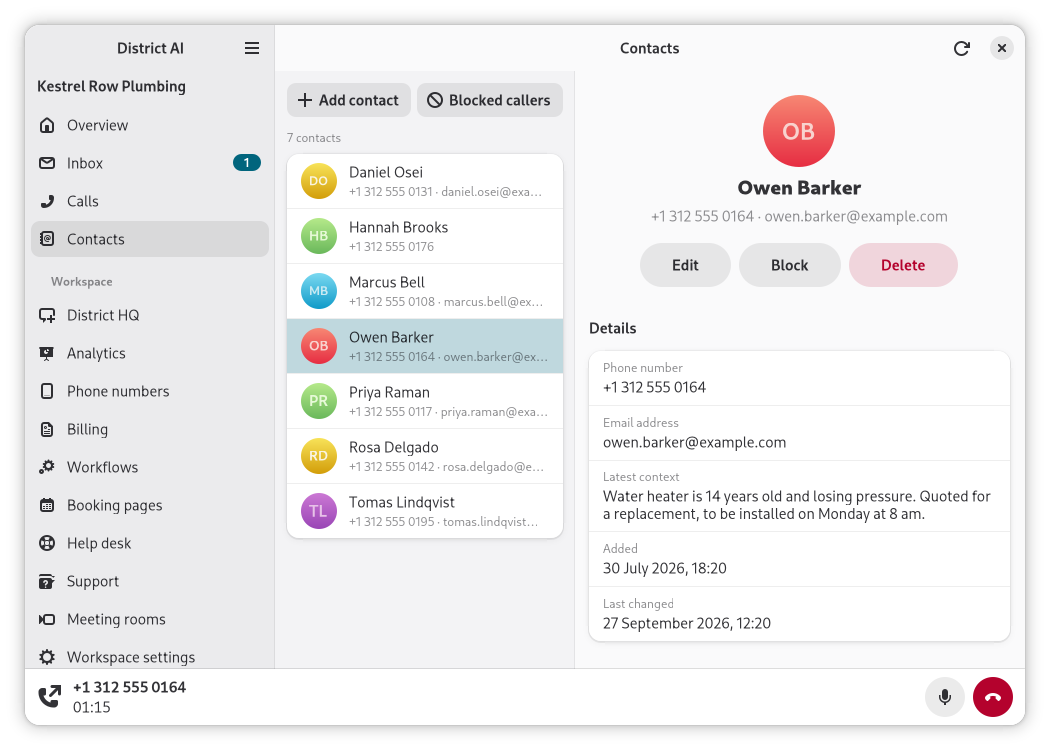
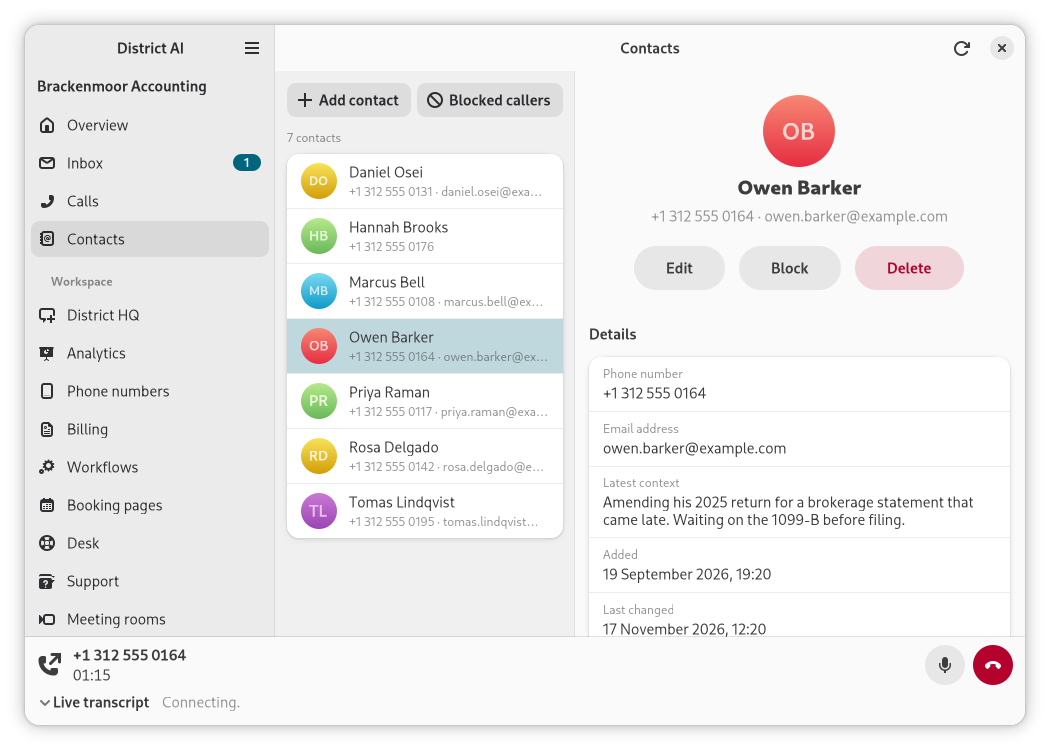
Store screenshots: an invented accounting firm instead of a plumbing business
The README's hero is the store call-log picture, so the store screenshots
test now answers for Brackenmoor Accounting, an invented firm: the same
five scenes, people and 555-01xx numbers, with calls, texts and contact
notes about bookkeeping, tax returns and payroll. All five pictures are
drawn again from the test and recompressed losslessly.

diff --git a/crates/district-app/tests/store_screenshots.rs b/crates/district-app/tests/store_screenshots.rs
@@ -3,8 +3,8 @@
 //!
 //! Like the smoke test (`tests/smoke.rs`), this builds the whole window
 //! against a scripted stand-in for the effect runner and answers what the app
-//! asks for. Unlike it, the answers are written here, for an invented plumbing
-//! business, so that the pictures read like a working day rather than like
+//! asks for. Unlike it, the answers are written here, for an invented accounting
+//! firm, so that the pictures read like a working day rather than like
 //! test data: every business, person and email address in them is made up,
 //! and every phone number is in the fictional 555-0100 to 555-0199 range.
 //!
@@ -60,8 +60,8 @@ const WIDTH: i32 = 1000;
 const HEIGHT: i32 = 700;
 
 /// The invented business, and its one workspace.
-const WORKSPACE: &str = "ws-kestrel-row";
-const BUSINESS: &str = "Kestrel Row Plumbing";
+const WORKSPACE: &str = "ws-brackenmoor";
+const BUSINESS: &str = "Brackenmoor Accounting";
 
 /// The scripted stand-in for the effect runner: every effect is kept for the
 /// script to answer, or not.
@@ -353,8 +353,8 @@ const CALLS: [Call<'static>; 8] = [
         direction: "inbound",
         minutes_ago: 190,
         seconds: 142,
-        summary: "Kitchen sink leaking under the cabinet. Booked a repair visit for \
-                  Thursday between 9 and 11 am.",
+        summary: "New bakery owner. Booked a consultation on her books and taxes for \
+                  Thursday at 10 am.",
     },
     Call {
         id: "call-weekend",
@@ -363,7 +363,7 @@ const CALLS: [Call<'static>; 8] = [
         direction: "inbound",
         minutes_ago: 230,
         seconds: 48,
-        summary: "Asked whether we come out for emergencies on weekends. Took a number \
+        summary: "Asked whether we file extensions for personal returns. Took a number \
                   for a call back.",
     },
     Call {
@@ -373,7 +373,7 @@ const CALLS: [Call<'static>; 8] = [
         direction: "outbound",
         minutes_ago: 1_210,
         seconds: 245,
-        summary: "Talked through replacing the water heater. The quote follows by text.",
+        summary: "Went through what is missing for his amended return. The list follows by text.",
     },
     Call {
         id: "call-missed",
@@ -391,8 +391,8 @@ const CALLS: [Call<'static>; 8] = [
         direction: "inbound",
         minutes_ago: 1_420,
         seconds: 220,
-        summary: "Wants a quote for a bathroom remodel. Transferred to the office to book \
-                  a site visit.",
+        summary: "Wants help registering her consulting business and setting up payroll. \
+                  Transferred to a partner.",
     },
     Call {
         id: "call-daniel",
@@ -401,7 +401,7 @@ const CALLS: [Call<'static>; 8] = [
         direction: "inbound",
         minutes_ago: 2_880,
         seconds: 110,
-        summary: "Low water pressure upstairs. Booked a visit for Monday morning.",
+        summary: "Received an IRS notice about last year's return. Booked a review for Monday.",
     },
     Call {
         id: "call-hannah",
@@ -410,7 +410,7 @@ const CALLS: [Call<'static>; 8] = [
         direction: "inbound",
         minutes_ago: 3_020,
         seconds: 125,
-        summary: "Outdoor faucet dripping since the frost. Sent a quote by text.",
+        summary: "Asked what to bring to her tax appointment. Sent the checklist by text.",
     },
     Call {
         id: "call-marcus",
@@ -431,12 +431,12 @@ fn rosa_call() -> Value {
     call["disposition"] = json!("booked");
     call["analysis"] = json!({
         "keyPoints": [
-            "Leak under the kitchen sink since this morning",
-            "The shut-off valve is closed for now"
+            "Opened a bakery in March and keeps her receipts in a spreadsheet",
+            "Has not made an estimated tax payment yet"
         ],
         "objections": [],
-        "topics": ["Repair", "Booking"],
-        "actionItems": ["Bring a replacement trap and supply lines"],
+        "topics": ["New client", "Booking"],
+        "actionItems": ["Send the new-client intake form and document checklist"],
         "followUpSuggested": false
     });
     call["followUp"] = json!({
@@ -449,18 +449,18 @@ fn rosa_call() -> Value {
 }
 
 /// The text the receptionist sent Rosa after her call.
-const FOLLOW_UP: &str = "Hi Rosa, this is Kestrel Row Plumbing. Your visit is booked for \
-                         Thursday between 9 and 11 am. Reply here if anything changes.";
+const FOLLOW_UP: &str = "Hi Rosa, this is Brackenmoor Accounting. Your consultation is booked \
+                         for Thursday at 10 am. Reply here if anything changes.";
 
 /// Rosa's call, as the service writes a transcript: a line a turn.
 const TRANSCRIPT: &str = "\
-Receptionist: Thanks for calling Kestrel Row Plumbing, this is Ava. How can I help?
-Caller: Hi, my kitchen sink is leaking under the cabinet. It started this morning and \
-it's getting worse.
-Receptionist: I'm sorry to hear that. Have you been able to turn the water off?
-Caller: Yes, I closed the valve under the sink, so it's stopped for now.
-Receptionist: That was the right thing to do. A plumber can come on Thursday between \
-9 and 11 am. Would that work?
+Receptionist: Thanks for calling Brackenmoor Accounting, this is Ava. How can I help?
+Caller: Hi, I opened a bakery this spring and I need help with my books and taxes. \
+I haven't paid anything quarterly yet.
+Receptionist: You're in the right place. Is that ongoing bookkeeping, this year's taxes, or both?
+Caller: Both, I think. Right now my receipts are all in a spreadsheet.
+Receptionist: That's a good start. One of our accountants can meet with you on Thursday \
+at 10 am to go through it. Would that work?
 Caller: Thursday morning is perfect.
 Receptionist: You're booked in, and I'll text you the details now. Is there anything \
 else I can help with?
@@ -487,12 +487,12 @@ fn overview() -> Value {
         "workspaceId": WORKSPACE,
         "role": "client",
         "metrics": {
-            "totalCalls": 1_284,
-            "callsThisWeek": 63,
-            "totalContacts": 342,
-            "avgDuration": 154
+            "totalCalls": 864,
+            "callsThisWeek": 41,
+            "totalContacts": 318,
+            "avgDuration": 192
         },
-        "avgDurationLabel": "2m 34s",
+        "avgDurationLabel": "3m 12s",
         "recentCalls": recent
     })
 }
@@ -550,7 +550,7 @@ fn conversations() -> Value {
                 Some(("contact-rosa", "Rosa Delgado")),
                 "+13125550142",
                 (
-                    "Perfect, see you Thursday. Should I clear out the cabinet first?",
+                    "Perfect, see you Thursday. Should I bring my bank statements too?",
                     "inbound",
                     6,
                 ),
@@ -559,14 +559,14 @@ fn conversations() -> Value {
             conversation(
                 None,
                 "+13125550189",
-                ("Do you come out for emergencies on weekends?", "inbound", 35),
+                ("Do you file extensions for personal returns?", "inbound", 35),
                 1,
             ),
             conversation(
                 Some(("contact-priya", "Priya Raman")),
                 "+13125550117",
                 (
-                    "Thanks for the quote. Could you start the week after next?",
+                    "Thanks for the quote. Could payroll start on the first of the month?",
                     "inbound",
                     140,
                 ),
@@ -576,7 +576,7 @@ fn conversations() -> Value {
                 Some(("contact-owen", "Owen Barker")),
                 "+13125550164",
                 (
-                    "We can install the new water heater on Monday morning. Does 8 am work?",
+                    "We still need your brokerage 1099-B to file the amendment. Can you upload it?",
                     "outbound",
                     1_190,
                 ),
@@ -586,7 +586,7 @@ fn conversations() -> Value {
                 Some(("contact-daniel", "Daniel Osei")),
                 "+13125550131",
                 (
-                    "Thanks, the pressure is back to normal upstairs.",
+                    "Thanks, the IRS letter makes sense now. See you Monday.",
                     "inbound",
                     2_700,
                 ),
@@ -634,19 +634,19 @@ fn rosa_thread() -> Value {
                 185,
                 FOLLOW_UP,
             ),
-            text("sms-2", "inbound", 41, "Thank you! Is there a charge for the visit itself?"),
+            text("sms-2", "inbound", 41, "Thank you! Is there a charge for the first meeting?"),
             text(
                 "sms-3",
                 "outbound",
                 30,
-                "The service call fee is $79, and it comes off the bill if you go ahead \
-                 with the repair.",
+                "The first consultation is free, and we send a fixed quote for the year \
+                 after it.",
             ),
             text(
                 "sms-4",
                 "inbound",
                 6,
-                "Perfect, see you Thursday. Should I clear out the cabinet first?",
+                "Perfect, see you Thursday. Should I bring my bank statements too?",
             ),
         ],
         "pageInfo": {"hasMore": false, "oldest": ago(190), "oldestId": "call-rosa"}
@@ -680,11 +680,12 @@ fn contact(name: &str, number: &str, email: bool, context: Option<&str>) -> Valu
 }
 
 fn contacts() -> ContactListResponse {
-    let owen = "Water heater is 14 years old and losing pressure. Quoted for a \
-                replacement, to be installed on Monday at 8 am.";
-    let priya = "Remodeling the upstairs bathroom: a new shower valve, vanity and \
-                 toilet. Wants to start the week after next.";
-    let rosa = "Kitchen sink leak. Visit booked for Thursday between 9 and 11 am.";
+    let owen = "Amending his 2025 return for a brokerage statement that came late. \
+                Waiting on the 1099-B before filing.";
+    let priya = "Starting a consulting business: registering the company, payroll for \
+                 two employees and quarterly estimates. Wants to start next month.";
+    let rosa = "New bakery owner. Consultation on bookkeeping and quarterly taxes, \
+                Thursday at 10 am.";
     from(json!({
         "success": true,
         "contacts": [
@@ -907,7 +908,7 @@ fn inbox_scene(store: &Store) {
         .downcast::<gtk::TextView>()
         .expect("the composer")
         .buffer()
-        .set_text("Yes please, that gives us room to work. See you Thursday!");
+        .set_text("Yes please, the last three months would help. See you Thursday!");
     store.pump();
     assert!(store.shows("Rosa Delgado"));
     store.forget();
@@ -970,7 +971,7 @@ fn call_scene(store: &Store) {
         result: Ok(from(json!({
             "success": true,
             "callId": "call-store-owen",
-            "roomName": "direct_ws-kestrel-row-call-store-owen",
+            "roomName": "direct_ws-brackenmoor-call-store-owen",
             "token": "store-screenshot-token",
             "url": "wss://media.example.com"
         }))),

diff --git a/CONTRIBUTING.md b/CONTRIBUTING.md
@@ -503,7 +503,7 @@ GNOME Software show on the app's page. They are the PNGs in
 `crates/district-app/data/screenshots/`, and a second test beside the smoke
 test draws them, `crates/district-app/tests/store_screenshots.rs`: the real
 window against the same kind of scripted runner, answered with an invented
-plumbing business's calls, messages and contacts written in the test (every
+accounting firm's calls, messages and contacts written in the test (every
 person in it made up, every number in the 555-0100 to 555-0199 range), rather
 than with the contract fixtures, whose names read like test data. Each scene is
 a window of 1000 by 700, in the light style, with the rounded corners and the shadow a compositing desktop
